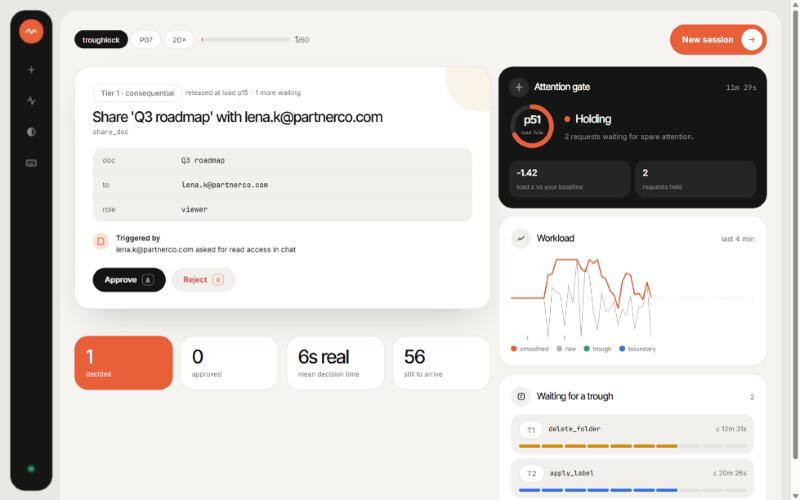
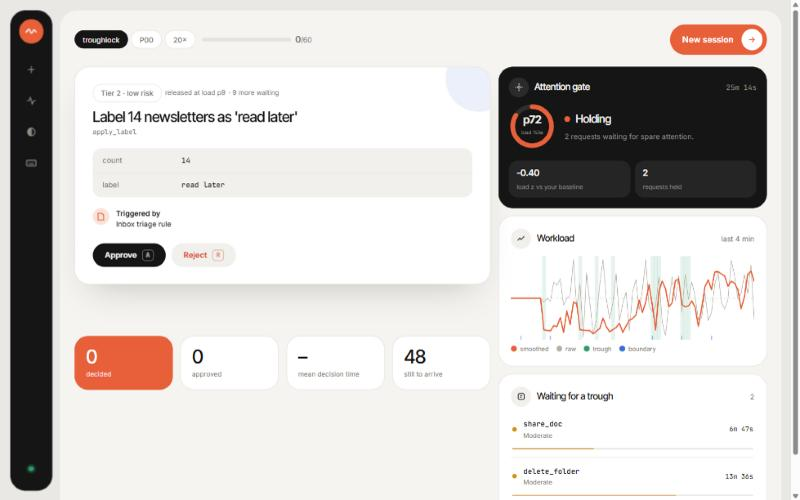
Simpler held-request list: dot, action, risk label, thin deadline line

diff --git a/static/index.html b/static/index.html
@@ -258,6 +258,18 @@ dialog::backdrop{background:rgba(20,18,14,.45);backdrop-filter:blur(6px)}
 :root[data-theme=dark] .card{box-shadow:none}
 :root[data-theme=dark] .card::before{background:color-mix(in srgb,var(--c) 14%,transparent)}
 :root[data-theme=dark] .btn.ok{background:var(--ink);color:var(--bg)}
+/* held v5 */
+.held{gap:0;margin-top:8px}
+.held li{grid-template-columns:auto 1fr auto;gap:12px;background:none;border-radius:0;padding:14px 2px;border-bottom:1px solid var(--line)}
+.held li:last-child{border-bottom:0}
+.held .dot{width:8px;height:8px;border-radius:50%;background:var(--c)}
+.held .act{display:flex;flex-direction:column;gap:2px;min-width:0}
+.held .act b{font-size:13px;font-weight:500;overflow:hidden;text-overflow:ellipsis;white-space:nowrap}
+.held .act small{font-size:11.5px;color:var(--mute)}
+.held .when{font-size:12px;color:var(--ink)}
+.held .bar{display:block;height:2px;background:var(--line);border-radius:2px;overflow:hidden;margin-top:2px}
+.held .bar i{display:block;height:100%;background:var(--c);border-radius:2px;flex:none}
+:root{--t0:#d94a3a;--t1:#d4901f;--t2:#3a6fd9}
 </style>
 </head>
 <body>
@@ -427,7 +439,7 @@ function onState(m){
   else{$('gateH').textContent='Clear';$('gateP').textContent=m.boundary?'Task boundary.':'No requests waiting.'}
   $('heldN').textContent=m.queued;$('heldN2').textContent=m.queued;
   $('held').innerHTML=m.held.length?m.held.slice(0,30).map(h=>{const dl=[300,1200,1800][h.tier];const w=Math.max(0,Math.min(100,h.deadline_in/dl*100));
-    return `<li class="c${h.tier}"><span class="tag c${h.tier}">T${h.tier}</span><span class="mono" style="font-size:12px">${esc(h.action)}</span><span class="when">${h.deadline_in>0?'≤ '+fmt(h.deadline_in):'due'}</span><span class="bar">${Array.from({length:10},(_,i)=>`<i class="${i<Math.ceil(w/10)?'on':''}"></i>`).join('')}</span></li>`}).join(''):'<li class="none" style="background:none;padding:0">Nothing held.</li>';
+    return `<li style="--c:var(--t${h.tier})"><span class="dot"></span><span class="act"><b class="mono">${esc(h.action)}</b><small>${['Irreversible','Moderate','Low risk'][h.tier]}</small></span><span class="when mono">${h.deadline_in>0?fmt(h.deadline_in):'due'}</span><span class="bar"><i style="width:${w}%"></i></span></li>`}).join(''):'<li class="none" style="background:none;padding:0">Nothing held.</li>';
   $('sDone').textContent=m.done;$('sAppr').textContent=m.approved;$('sLat').textContent=m.mean_latency==null?'–':fmt(m.mean_latency/m.speed)+' real';$('sLeft').textContent=m.remaining;
   const tg=$('tog');tg.setAttribute('aria-pressed',m.enabled);const lt='Load signal '+(m.enabled?'on':'off');tg.setAttribute('aria-label',lt);$('togTip').textContent=lt;
   if(!m.remaining&&!m.queued&&!m.shown&&m.done&&!debriefShown){debriefShown=true;openDebrief()}
